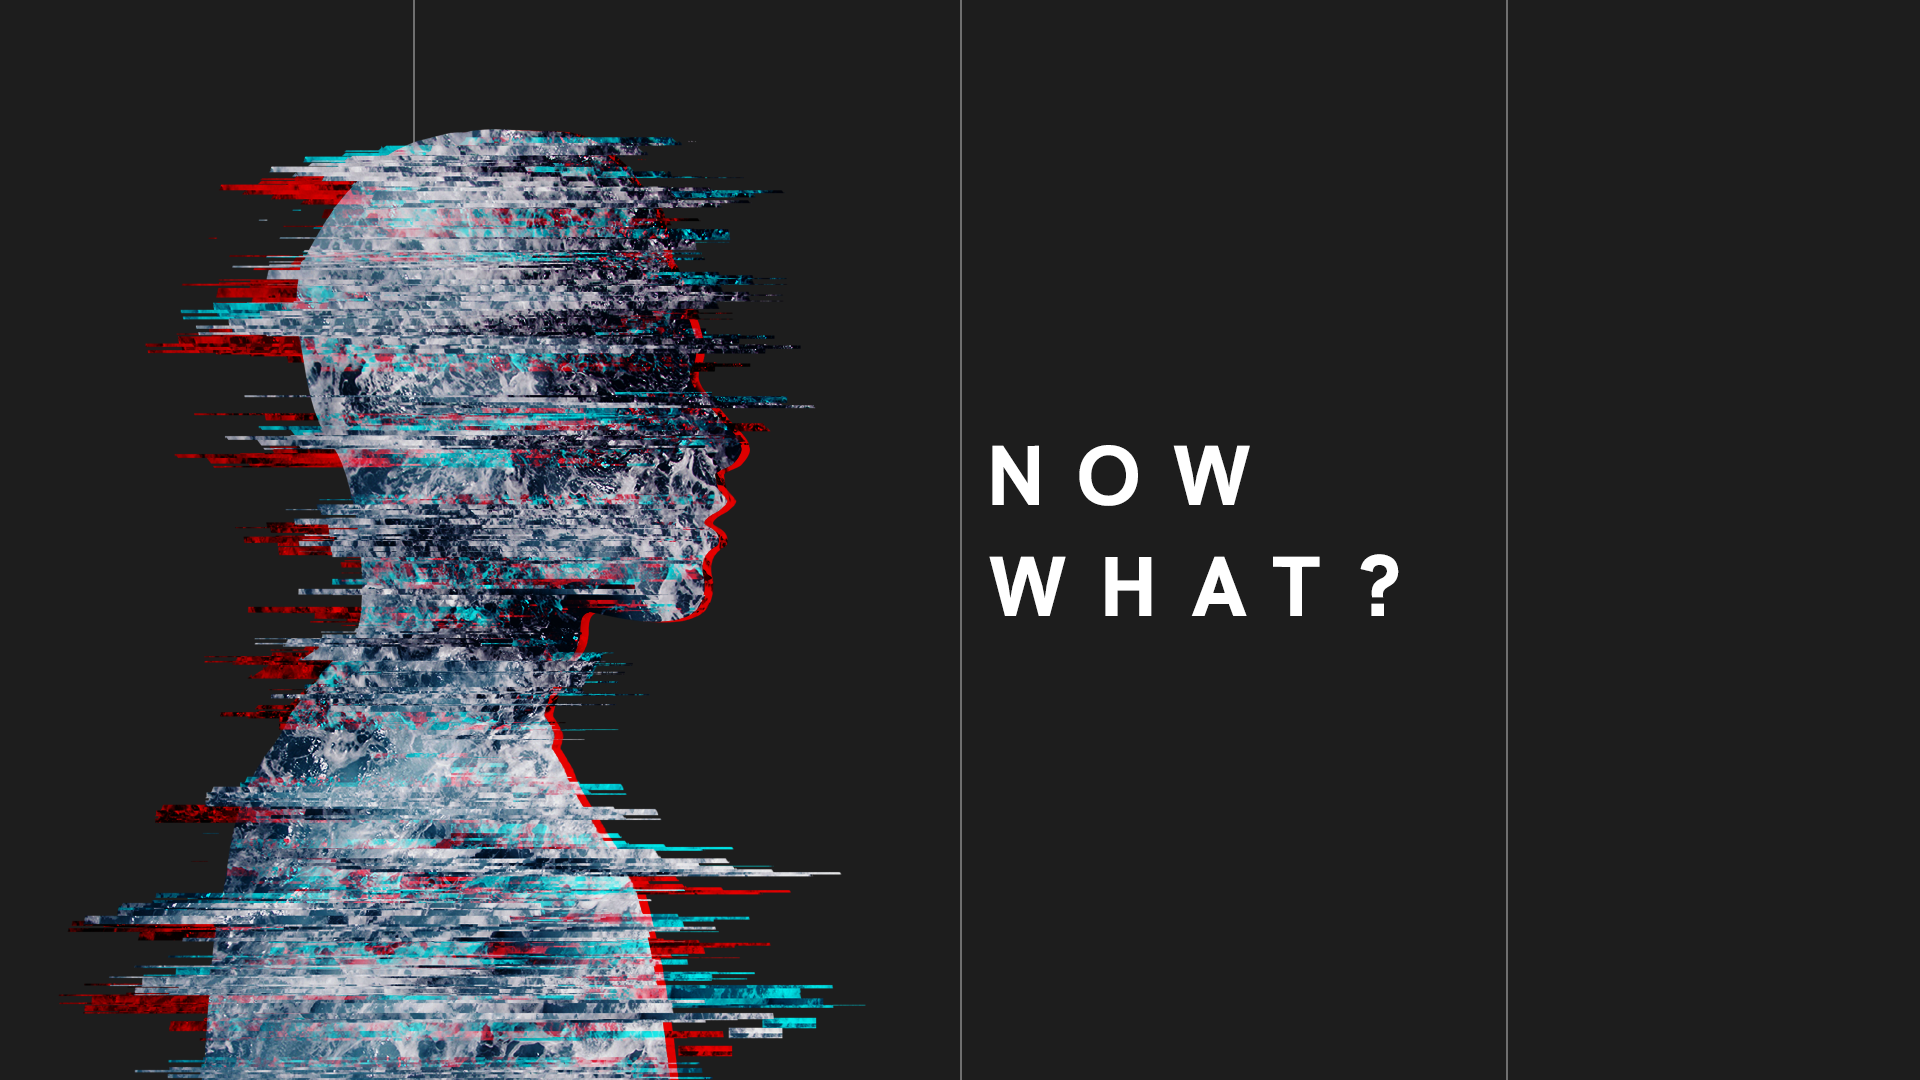
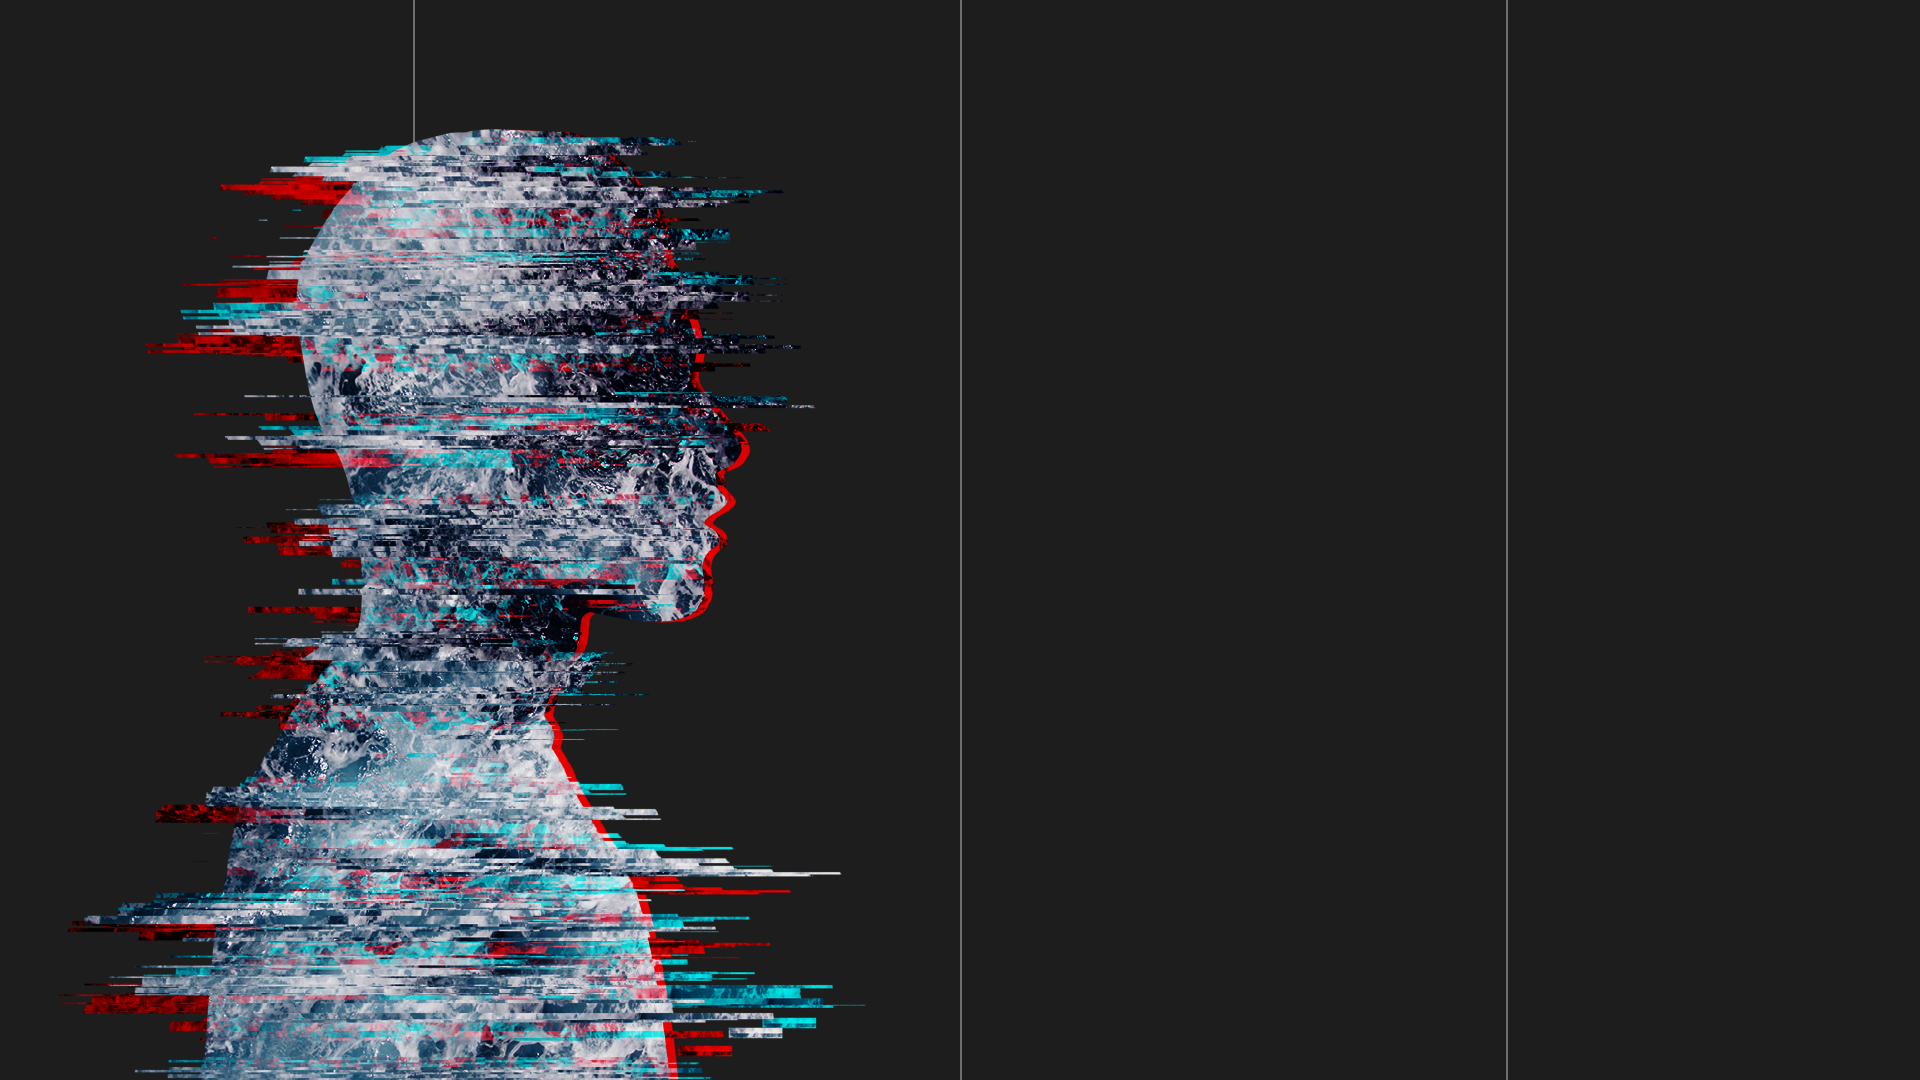
added team details and updated past event

Changed region(s): [[0.5, 0.4889, 0.75, 0.5806], [0.5, 0.3972, 0.6562, 0.4889]]

diff --git a/team.html b/team.html
@@ -41,7 +41,7 @@
                 </div>         
     
                 <div class="logoSide">
-                        <a href="index.html"><img src="imgs/logo.png" alt="logo" class="logoSide"></a>
+                        <a href="index.html"><img src="imgs/logo3.png" alt="logo" class="logoSide"></a>
                 </div>
     
                 <div class="menu">
@@ -101,11 +101,15 @@
                     </div>
 
                     <div class="team-member">
-                        <img src="imgs/noprofile.png" alt="">
+                        <img src="imgs/team2019/ivan.jpg" alt="">
                         <div id="span">
                             <h3>Ivan So</h3>
                             <h4>Treasurer</h4>
-                            <p> </p>
+                            <p>I’m in my fourth year doing a conjoint BSc/BCom degree, majoring in Pharmacology, 
+                                Information Systems and Operations and Supply Chain Management. I’ve always found 
+                                TED talks really interesting and a great way of learning something new. So I 
+                                joined TEDxUoA because it gives me an opportunity to learn something and also bring 
+                                 talks to the University.</p>
                         </div>
                     </div>
 
@@ -188,11 +192,16 @@
                     </div>
 
                     <div class="team-member">
-                            <img src="imgs/noprofile.png" alt="">
+                            <img src="imgs/team2019/vanessa.jpg" alt="">
                             <div id="span">
                                 <h3>Vanessa Ciputra</h3>
                                 <h4>Marketing Team Member</h4>
-                                <p> </p>
+                                <p>I'm in my 3rd year of my degree doing Software 
+                                    Engineering. I'm a huge advocate for inspiration, and coupled with my passion 
+                                    for marketing, I joined TEDxUoA to help organise and be part of the most 
+                                    spectacular event of the year! I love designing, gaming and eating out - you can 
+                                    catch me at basically any bubble tea joint in town (if you need any recommendations, 
+                                    hit me up!) 🙂 This year at TEDxUoA is going to be a blast - make sure you're there for it!</p>
                             </div>
                     </div>
         
@@ -242,7 +251,7 @@
                     <h2>EDUCATION TEAM</h2>
 
                     <div class="team-member">
-                        <img src="imgs/noprofile.png" alt="">
+                        <img src="imgs/team2019/eugena.jpg" alt="">
                         <div id="span">
                             <h3>Eugena Au</h3>
                             <h4>Education Lead</h4>
@@ -253,11 +262,14 @@
                     </div>
 
                     <div class="team-member">
-                            <img src="imgs/noprofile.png" alt="">
+                            <img src="imgs/team2019/nicholas.jpg" alt="">
                             <div id="span">
                                 <h3>Nicholas Kondal</h3>
                                 <h4>Education Team Member</h4>
-                                <p> </p>
+                                <p>I'm in my third year studying Biomedical Engineering and Physics. I joined 
+                                    TEDxUoA because I love how TED Talks empower anyone to share their stories and 
+                                    be appreciated by millions of people around the world, which is why I'm 
+                                    excited to bring TEDx and an amazing line-up of speakers to the University!</p>
                             </div>
                     </div>
 
@@ -271,11 +283,13 @@
                     </div>
 
                     <div class="team-member">
-                            <img src="imgs/noprofile.png" alt="">
+                            <img src="imgs/team2019/taruki.jpg" alt="">
                             <div id="span">
                                 <h3>Taruki Gunawardana</h3>
                                 <h4>Education Team Member</h4>
-                                <p> </p>
+                                <p>I'm currently in my fourth year doing a BEng/BA majoring in Civil 
+                                        Engineering and French. I joined TEDxUoA because I wanted to get more involved in 
+                                        a leadership position, learn heaps and meet some awesome people!</p>
                             </div>
                     </div>
 

diff --git a/index.html b/index.html
@@ -36,7 +36,7 @@
             </div>         
 
             <div class="logo">
-                   <a href="#sectionZero"><img src="imgs/logo.png" alt="logo" class="logo"></a>
+                   <a href="#sectionZero"><img src="imgs/logo3.png" alt="logo" class="logo"></a>
             </div>
 
             <div class="menu">
@@ -68,7 +68,7 @@
       <div id="sectionOne" div class="mydiv">
                   <!--<div id="particles-js">-->
                         <div id="noSkew">
-                              <p class="textType">TEDxUoA</p>
+                              <p class="textType"> </p> <br>
                               <div class="contentOne">
                                     <p style="color:white; font-weight: 300; font-size: 20px; line-height: 40px;">
                                                 TEDxUoA’s mission is to kindle curiosity and action in students by 
@@ -80,14 +80,9 @@
                                     </p>
                                     <p style="color:white; font-weight: 300; font-size: 20px; line-height: 40px;">
                                                 Our first event held in October 2017 saw near 100 attendees engage with a range of diverse, 
-                                                inspiring speakers and several spectacular stalls. Attendees enjoyed the inspiring and meaningful talks as 
-                                                well as the topics discussed which they found relevant to them. High calibre students were 
-                                                attracted to our event. </p>
-                                    <p style="color:white; font-weight: 300; font-size: 20px; line-height: 40px;">
-                                                We then saw our second event held in September 2018 where tickets sold out in a matter of days. 
-                                                TEDxUoA’s annual conference undoubtedly became a well sought after event for the students at the 
-                                                University of Auckland. 
-                                                </p>
+                                                inspiring speakers and several spectacular stalls. We then saw our second event held in 
+                                                September 2018 where tickets sold out in a matter of days. Attendees enjoyed the inspiring and meaningful talks as 
+                                                well as the topics discussed which they found relevant to them.</p>
                               </div>     
                               <div class="buttonContainer">
                                     <!--<a href="#sectionOne" class="button">EVENT 2019</a>-->
@@ -113,14 +108,20 @@
                         </div>
                         <p>WATCH NOW</p>
                   </div>
-                  <div class="flex-item" id="rightSide"><div class="headingRight"><p>WHAKAPAPA 2017</p></div>    
-                        <div id="contentRight">
+                  <div class="flex-item" id="rightSide"><div class="headingRight"><p>NOW WHAT?</p></div>    
+                        <div class="contentRight">
                               <p>   <br>
-                                    Our theme for 2017 was Whakapapa, a key identifying Maori concept which flows into the
-                                    origins of nature, culture and even yourself.<br>
+                                    Our theme for 2018 was 'Now What?', focussing on the future of our world, .<br>
                                     <br>
-                                    Our inaugaral event took place on Saturday the 7th, October 2017, with a total of 11 very talented acts: 
-                                    8 speakers and 3 performers. We were joined by 100 intellectual explorers, who listened and
+                                    Our event took place on Saturday the 29th, September 2018, with a total of 9 very talented acts: 
+                                    6 speakers and 3 performers. 
+
+
+
+
+
+
+                                     We were joined by 100 intellectual explorers, who listened and
                                     engaged, but also took part in numerous interactive activities during the breaks
                                     such as AR & VR stalls and art exhibitions.<br>
                                     <br>

diff --git a/style.css b/style.css
@@ -173,8 +173,7 @@ nav ul li a:hover::before {
 
 /* ABOUT SECTION */
 #sectionOne {
-      background: linear-gradient(217deg, rgba(255,0,0,.8), rgba(255,0,0,0) 70.71%),
-      linear-gradient(336deg, rgba(0,0,255,.8), rgba(0,0,255,0) 70.71%) center no-repeat;
+      background:linear-gradient( rgba(0, 0, 0, 0.8), rgba(0, 0, 0, 0.8) ),url(imgs/about2.jpg) center no-repeat;
       background-size: cover;
       margin-top: 50px;
       min-height: 100vh;
@@ -245,6 +244,7 @@ nav ul li a:hover::before {
 .buttonContainer3 {
       text-align: right;
       padding-right: 75px;
+      padding-bottom: 100px;
 }
 
 .button3 {
@@ -274,7 +274,7 @@ nav ul li a:hover::before {
 }
 
 #sectionTwo {
-      background:linear-gradient( rgba(0, 0, 0, 0.6), rgba(0, 0, 0, 0.6) ),url(imgs/nine.jpg) center no-repeat;
+      background:linear-gradient( rgba(0, 0, 0, 0.9), rgba(0, 0, 0, 0.6) ),url(imgs/banner2018.png) center no-repeat;
       background-size: cover;
       min-height: 100vh;
       margin-top: 0px;
@@ -312,15 +312,12 @@ nav ul li a:hover::before {
       margin: 15px 0 5px 5px;
 }
 
-#rightSide {
-      width: 10%;
-      display: inline-block;
-}
 
 #leftSide {
       width: 10%;
       /*positioning triangle */
-      padding-top: 310px;
+      padding-top: 200px;
+      padding-left: 550px;
       text-align: center;
       color: white; 
       font-size: 40px;      
@@ -340,7 +337,7 @@ nav ul li a:hover::before {
 .fa-play {
       -webkit-text-fill-color: transparent;
       -webkit-text-stroke-width: 3px;
-      -webkit-text-stroke-color: white;
+      -webkit-text-stroke-color: #d20000;
       cursor: pointer;
       transition: transform 300ms ease-in-out;
 }
@@ -351,11 +348,10 @@ nav ul li a:hover::before {
 }
 
 .headingRight {
-      padding-top: 50px;
-      margin-top: 0px;
+      margin-top: -20px;
       padding-right: 90px;
       color: white;
-      font-size:60px;
+      font-size:40px;
       font-weight: bold;
       text-align: right;
       letter-spacing: 5px;
@@ -364,27 +360,31 @@ nav ul li a:hover::before {
 
 .headingRight p {
       /* reduces space between heading and content */
-      margin-bottom: -0px;
+      margin-bottom: -48px;
+      text-align: right;
+      padding-right: 250px;
 }
 
-#contentRight {
-      padding-bottom: 200px;
+.contentRight {
+      padding-bottom: 50px;
+      width: 50%;
+      height: auto;
+      margin-left: 570px;
+
 }
 
-#contentRight p {  
-      text-align: justify;
+.contentRight p {
       color: white;
       font-size: 20px;
       line-height: 40px;
-      padding-right: 90px;
-      padding-left: 5%;
-      padding-bottom: 10px;     
+      padding-bottom: 10px; 
+      text-align: center;  
 }
 
 /* EVENT 2018 */
 #sectionThree {
       margin-top: 0px;
-      background: linear-gradient(rgba(0, 0, 0, 0.1), rgba(0,0,0,1)), url(imgs/logo2.png) no-repeat 50% 50%;
+      background: linear-gradient(rgba(0, 0, 0, 0.3), rgba(0,0,0,1)), url(imgs/logo2.png) no-repeat 50% 50%;
       background-size: cover;      
       padding-bottom: 1px;
       min-height: 100vh;      
